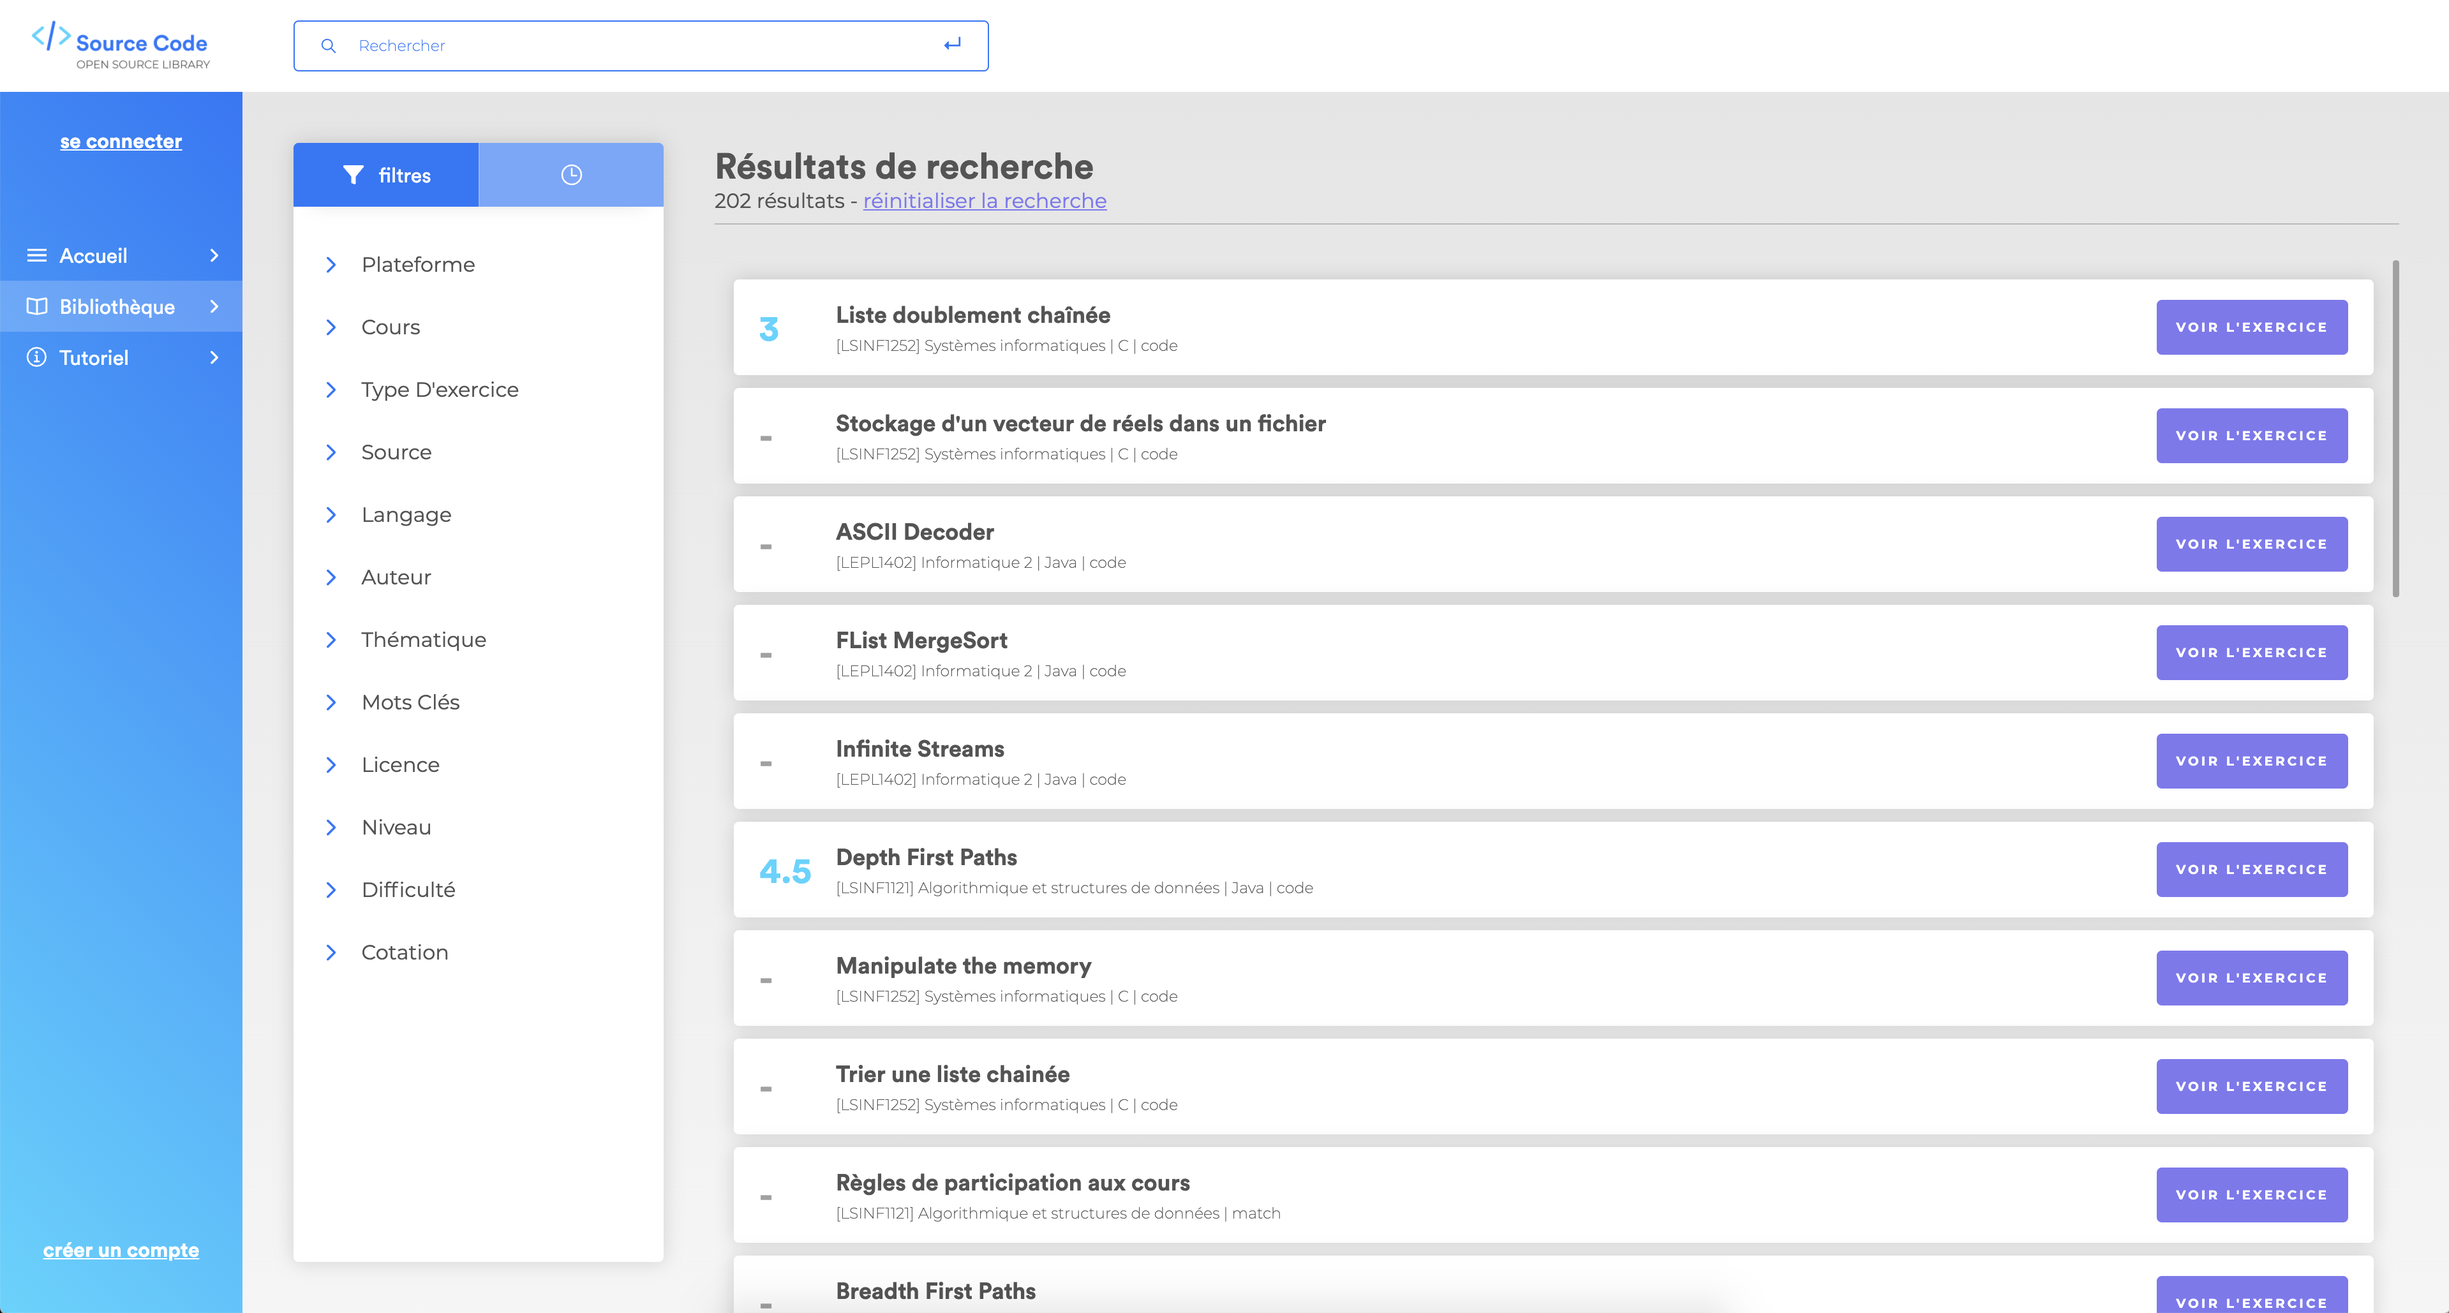
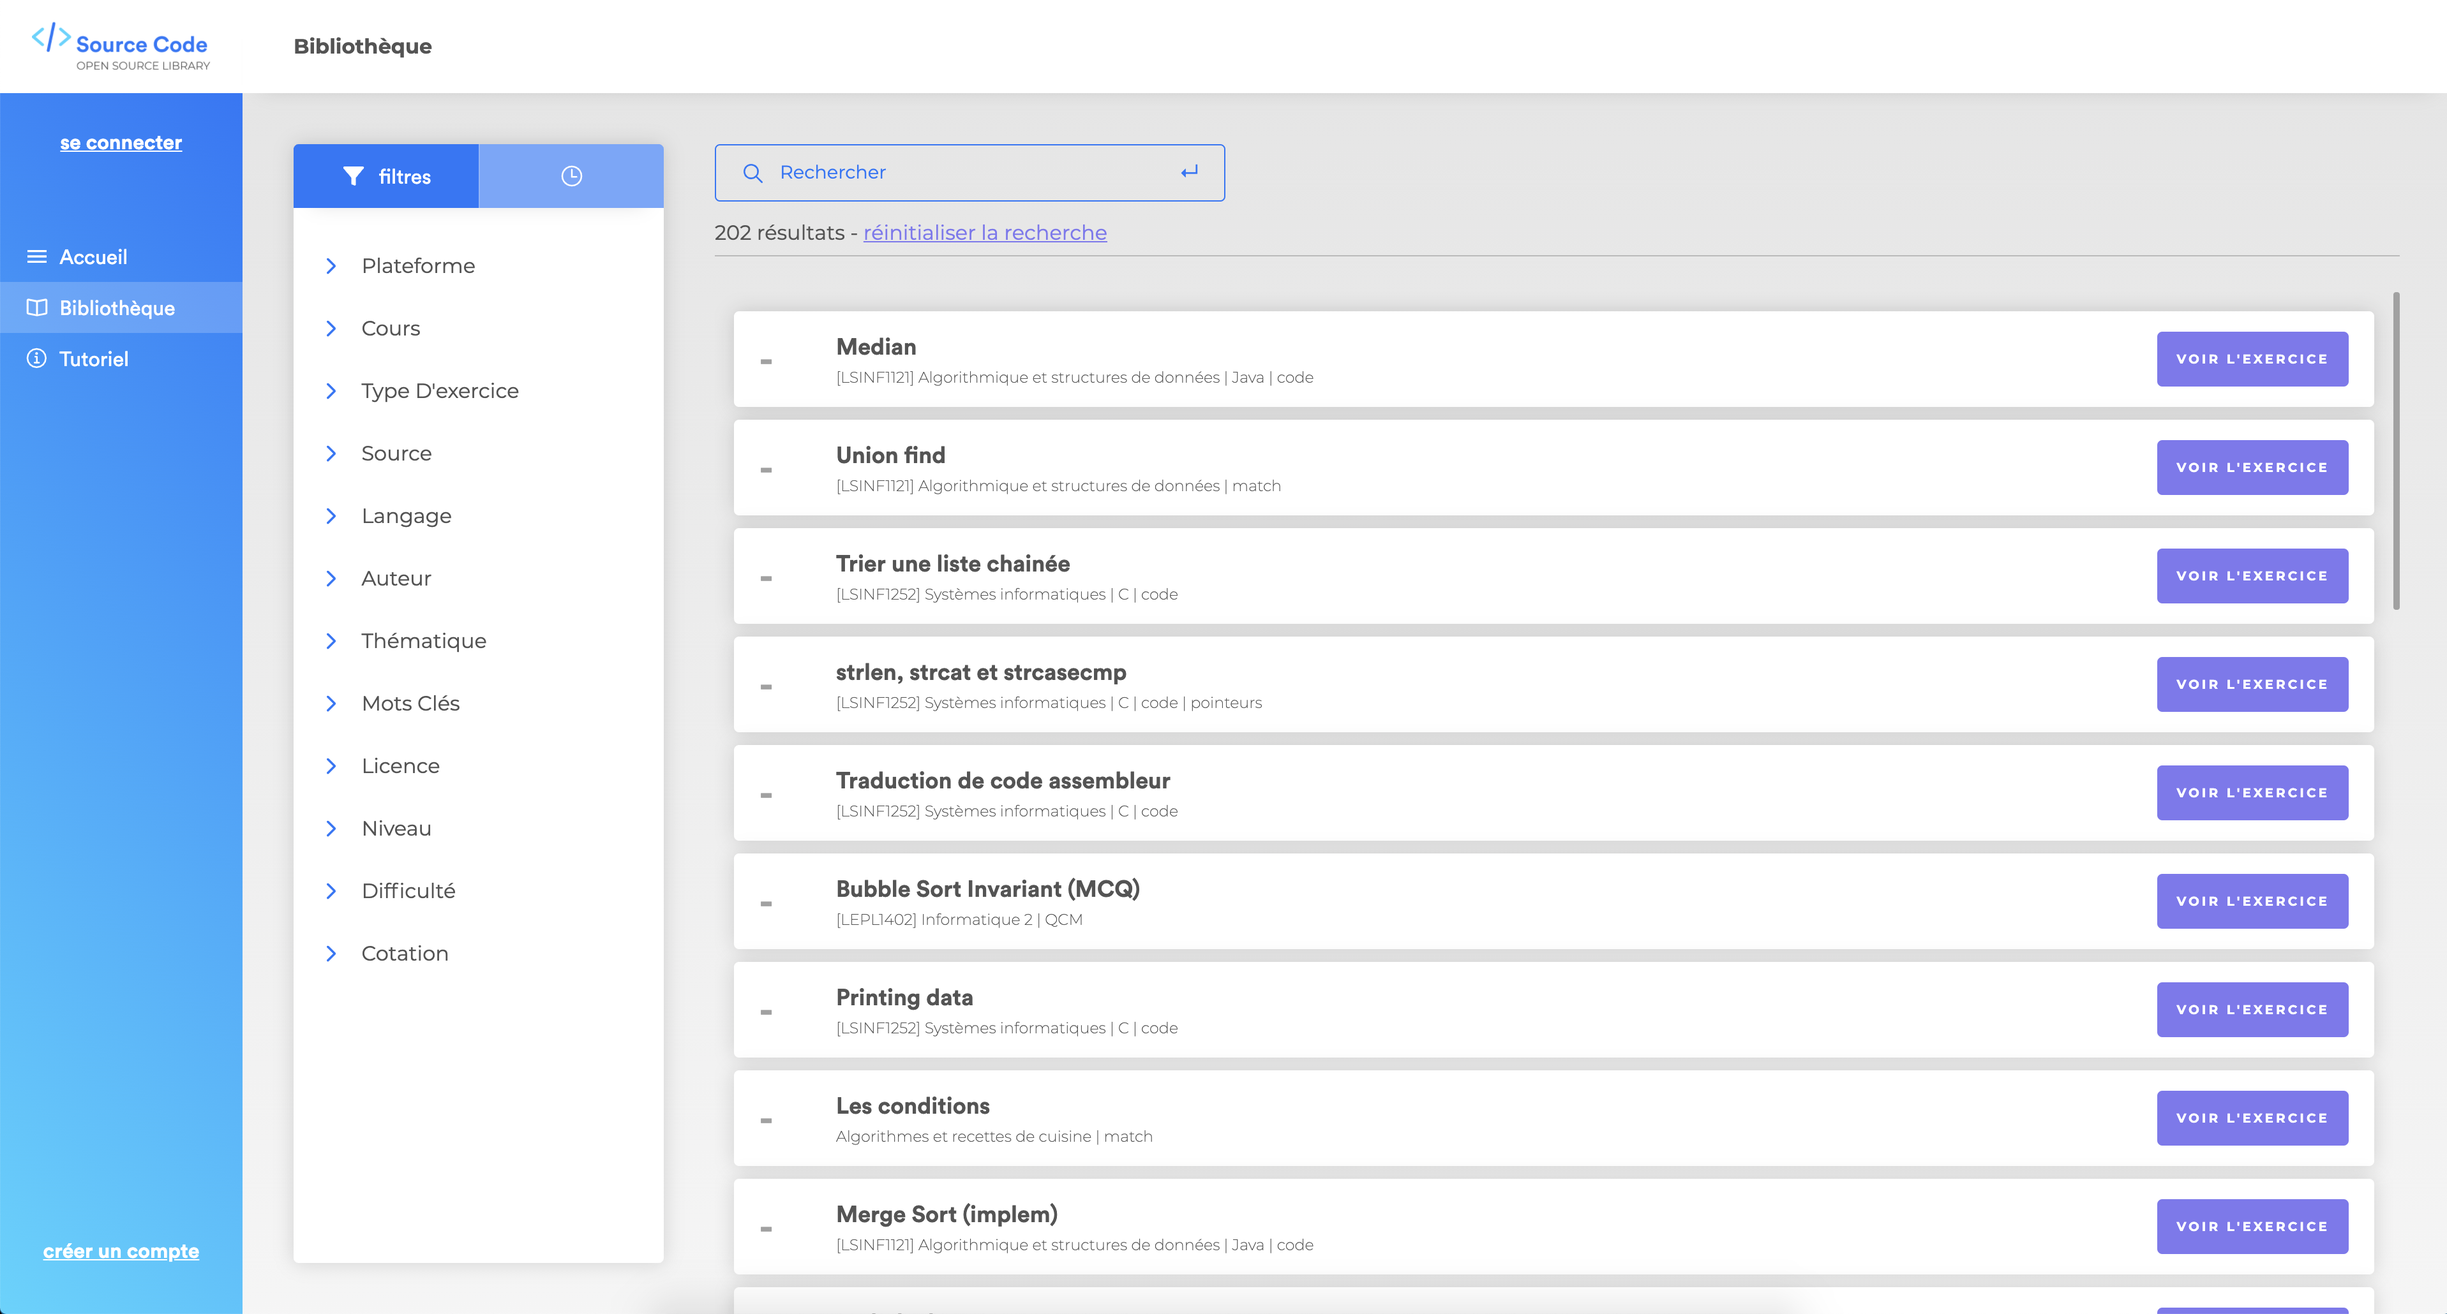
wip(Client): listen to Jacques comments

diff --git a/sections/chapters/solution/client/index.tex b/sections/chapters/solution/client/index.tex
@@ -4,7 +4,7 @@ Cette section est entièrement dédiée à la conception du \gls{frontend} de \t
 
 Pour ce faire, nous allons naviguer à travers les différentes pages de la plateforme en expliquant nos choix d'implémentation et les fonctionnalités qui ont été mises en place.\\
 
-Pour vous donner une idée plus claire de ce qui va être abordé, voici une représentation du groupe d'URL de premier niveau que contient \texttt{SourceCode}.\\
+Afin de vous donner une idée plus claire de ce qui va être abordé, voici une représentation du groupe d'URL de premier niveau que contient \texttt{SourceCode}.\\
 
 \begin{figure}[H]
     \includegraphics[width=\textwidth,height=0.15\textheight,keepaspectratio]{images/client/overview_client.jpeg}
@@ -40,7 +40,7 @@ La création d'un compte permet d'accéder à des fonctionnalités supplémentai
     \caption[SourceCode : interface de création de compte]{Interface de création de compte}
 \end{figure}
 
-Par défaut, un compte créé offre les privilèges d'un \textbf{utilisateur}. Voici pour rappel les différents types d'utilisateurs pouvant accéder à la plateforme :
+Par défaut, un compte créé offre les privilèges d'un \textbf{utilisateur}. Voici pour rappel (section \ref{section:analyseFonctionnelle}) les différents types d'utilisateurs pouvant accéder à la plateforme :
 
 \begin{itemize}
     \item \textbf{Visiteur} : C'est la forme la plus simple. Les droits de ce type d'utilisateur se limitent à la navigation dans la bibliothèque de \glspl{resinfo}. Le système de favoris n'est accessible qu'à partir du moment où vous êtes membre de la plateforme. Nous entendons par là l'utilisateur ou l'administrateur.
@@ -125,10 +125,17 @@ Il existe dès lors 3 types d'onglets :
 
 \paragraph{Filtres} Ils permettent d'affiner la recherche de \glspl{resinfo}. Les \glspl{tag} cochés apparaitront juste au-dessus des résultats. Si un \gls{tag} ne convient plus à la recherche, il suffit de décocher un des tags en question ou de cliquer sur la croix du label représentant le \gls{tag} sélectionné.\\
 
+Comme vous pourrez le constater sur la figure \ref{figure:rechercheBibliotheque}, le panneau de filtres n'est plus à la même position que ce que nous avions imaginé avec notre patchwork \ref{figure:patchwork}. Dans ce dernier, nous avions intégré le filtrage de \glspl{tag} dans une interface dédiée à cet effet.\\
+
+Dans l'interface actuelle, nous voulions que tout soit facilement accessible compte tenu du fait que nous allions intégrer l'historique et le système de favori au même endroit (ce que nous n'avions pas encore décidé au stade du patchwork).\\
+
+La page que nous avions prévu sur le patchwork pour les filtres (figure \ref{figure:systemeDeFiltres}) s'apparente plutôt à une interface avancée. Nous expliquerons d'ailleurs les quelques pistes d'améliorations qui pourraient être apportées à ce sujet dans une prochaine mise à jour de la plateforme en chapitre ???.
+
 \begin{figure}[H]
     \includegraphics[width=\textwidth,height=\textheight,keepaspectratio]{images/client/search-library.png}
     \centering
     \caption[SourceCode : recherche dans la bibliothèque]{Recherche dans la bibliothèque}
+    \label{figure:rechercheBibliotheque}
 \end{figure}
 
 Le système de filtres fonctionne comme \textit{Hackerrank} et \textit{Coderbyte} (section \ref{section:situation}) :
@@ -185,7 +192,7 @@ Voici à quoi ressemble la structure d'une \gls{fiche} :
     \caption[SourceCode : la représentation d'une \gls{fiche}]{la représentation d'une \gls{fiche}}
 \end{figure}
 
-Lorsque la ressource vous appartient ou que vous êtes un administrateur, un bouton de modification apparait dans le coin supérieur droit de la \gls{fiche} de la ressource. Cliquer sur le bouton mènera sur le formulaire de modification de la ressource (voir section \ref{section:gestionResInfo} pour la gestion coté utilisateur ou voir section \ref{section:resInfoAdmin} pour la gestion coté (super-)administrateur).\\
+Lorsque la ressource vous appartient ou que vous êtes un administrateur, un bouton de modification apparait dans le coin supérieur droit de la \gls{fiche} de la ressource. Cliquer sur le bouton mènera sur le formulaire de modification de la ressource (voir section \ref{section:gestionResInfo} pour la gestion côté utilisateur ou voir section \ref{section:resInfoAdmin} pour la gestion côté (super-)administrateur).\\
 
 \subsubsubsection*{Panneau de détails}
 
@@ -200,7 +207,7 @@ Sur la \gls{fiche} de la \gls{resinfo}, vous pouvez donner une note sur la quali
 
 Là aussi, le vote joue un rôle important dans le référencement de la \gls{resinfo} car les utilisateurs peuvent filtrer les \glspl{resinfo} en fonction de leur note.\\
 
-Nous avons choisi un système de vote sur 5 étoiles car les utilisateurs sont généralement habitués à celui-ci. La plateforme \textit{Hackerrank} utilise d'ailleurs ce système.
+Nous avons choisi un système de vote sur 5 étoiles car notre analyse (section \ref{section:situation}) a révélé cette caractérisque commune sur de nombreux sites. La plateforme \textit{Hackerrank} utilise d'ailleurs ce système.
 
 
 \subsection{Gestion}
@@ -246,9 +253,9 @@ Plusieurs informations sont disponibles pour identifier les ressources informati
 
 \subsubsubsection*{Statuts d'une \gls{resinfo}}
 
-Nous prêtons attention à la qualité du contenu sur la plateforme. Nous avons donc mis en place un système de statuts pour donner une indication sur l'état d'une \gls{resinfo}.
+Nous prêtons attention à la qualité du contenu sur la plateforme. Nous avons donc mis en place un système de statuts pour donner une indication sur l'état d'une \gls{resinfo}.\\
 
-Voici les différents états que peuvent prendre la \gls{resinfo} :
+Voici les différents états que peuvent prendre la \gls{resinfo} (découle de notre analyse bibliographique en annexe \ref{annexe:AnalyseBiblio}) :
 
 \begin{itemize}
     \item \includegraphics[valign=b,height=1.4\fontcharht\font`X]{images/client/draft.png} \textbf{Brouillon}
@@ -272,6 +279,8 @@ Voici les différents états que peuvent prendre la \gls{resinfo} :
         \item Quand une ressource est archivée, elle est alors uniquement accessible par les administrateurs et par son créateur.
     \end{itemize}
 \end{itemize}
+
+Le diagramme UML pour l'état d'un \gls{resinfo} se retrouve en figure \ref{pic:stateDiagramForFiches}.
 
 \subsubsubsection*{Gestion du statut de la ressource}
 
@@ -310,6 +319,7 @@ Lorsque vous remplissez le champ titre et/ou ajoutez des tags, le panneau à ong
 
 \begin{figure}[H]
     \includegraphics[width=\textwidth,height=0.3\textheight,keepaspectratio]{images/client/similarity.png}
+    \centering
 \end{figure}
 
 \subsubsubsection*{Soumission de la ressource}
@@ -317,7 +327,7 @@ Lorsque vous remplissez le champ titre et/ou ajoutez des tags, le panneau à ong
 Deux options de soumission sont disponibles :
 
 \begin{itemize}
-    \item \textbf{Brouillon :} Vous estimez que la \gls{resinfo} n'est pas encore prête pour être validée, vous la laissez donc en stand-by pour la modifier plus tard. À noter que vous \textbf{DEVEZ} remplir les champs obligatoires pour l'enregistrer sous cet état. C'est un choix d'archicture qui a été décidé au niveau de l'api car cela impliquait de gros changements (voir section ???).
+    \item \textbf{Brouillon :} Vous estimez que la \gls{resinfo} n'est pas encore prête pour être validée, vous la laissez donc en stand-by pour la modifier plus tard. À noter que vous \textbf{DEVEZ} remplir les champs obligatoires pour l'enregistrer sous cet état. Il s'agit d'un choix technique décidé au niveau de l'\gls{api}, pour conserver un seuil minimal de qualité dans les contributions.
     \item \textbf{Soumettre :} Vous estimez que la \gls{resinfo} est prête pour inspection. En cliquant sur soumettre, la ressource se met automatiquement en mode "en attente", jusqu'à ce qu'un administrateur la prenne en charge pour validation. Ce texte est remplacé par \textbf{valider} dans le cas de l'administrateur. Le statut de la ressource sera ainsi valide.
 \end{itemize}
 
@@ -357,7 +367,7 @@ Voici les différents champs à remplir pour créer un favori :
     \centering
 \end{figure}
 
-En ce qui concerne l'ajout de \glspl{tag}, un code couleur représentant leur statut est présenté :
+En ce qui concerne l'ajout de \glspl{tag}, un code couleur représentant leur statut est présenté (figure \ref{pic:stateDiagramForTags} pour le schéma UML à états). À noter que ce choix de statuts découle de notre analyse bibliographique en annexe \ref{annexe:AnalyseBiblio}. :
 
 \begin{itemize}
     \item Un \gls{tag} \textbf{valide} pourra être utilisé depuis la bibliothèque pour filtrer les \glspl{resinfo}. Ceci garanti un meilleur référencement pour la ressource.
@@ -366,11 +376,11 @@ En ce qui concerne l'ajout de \glspl{tag}, un code couleur représentant leur st
     \item Un \gls{tag} \textbf{non valide} n'a pas été accepté l'administration. Il se peut qu'il soit modifié ultérieurement.
 \end{itemize}
 
-Nous parlons du statut des \glspl{tag} de manière plus concise dans la section \ref{section:tagAdmin} concernant la gestion des \glspl{tag} coté administrateur.
+Nous parlons du statut des \glspl{tag} de manière plus concise dans la section \ref{section:tagAdmin} concernant la gestion des \glspl{tag} côté administrateur.
 
 \subsubsection{La consultation de profil}
 
-À ce stade-ci du développement, le \gls{frontend} autorise seulement la consultation du profil et non la modification de celui-ci par l'utilisateur. En renvanche, cette fonctionnalité est déjà disponible coté backend (voir section ???).\\
+À ce stade-ci du développement, le \gls{frontend} autorise seulement la consultation du profil et non la modification de celui-ci par l'utilisateur. En revanche, cette fonctionnalité est déjà disponible côté backend (voir section ???).\\
 
 Dans le chapitre ???, nous développons quelques pistes d'améliorations concernant cette page afin de la rendre encore plus utile.
 
@@ -412,7 +422,7 @@ La gestion des \glspl{resinfo} fonctionne exactement comme la gestion de ses pro
 
 L'administrateur possède les fonctionnalités additionnelles suivantes pour la gestion des \glspl{resinfo} :
 
-\paragraph{Export des résultats de recherche} En filtrant les \glspl{resinfo} par \glspl{tag} et/ou par titre de recherche, vous pouvez exporter tous les résultats correspondant à ce filtrage dans un fichier JSON. Le format de ce fichier est décrit sur l'api (https://sourcecodeoer.github.io/sourcecode\_api/\#operation/ExportExercises).
+\paragraph{Export des résultats de recherche} En filtrant les \glspl{resinfo} par \glspl{tag} et/ou par titre de recherche, vous pouvez exporter tous les résultats correspondant à ce filtrage dans un fichier JSON. Le format de ce fichier est décrit sur l'api (\url{https://sourcecodeoer.github.io/sourcecode_api/#operation/ExportExercises}).
 
 \paragraph{Actions supplémentaires} Par rapport à un utilisateur classique, vous pouvez changer l'état d'une \gls{resinfo} de manière plus large avec les états suivants :
 
@@ -441,11 +451,11 @@ Améliorer le processus de création de \glspl{resinfo} est une de nos principal
 Les \glspl{resinfo} doivent être importées avec un fichier JSON respectant un des deux formats que nous vous invitons à consulter :
 
 \begin{itemize}
-    \item \href{https://sourcecodeoer.github.io/sourcecode_api/#operation/createMultipleExercises}{Format d'import classique}
-    \item \href{https://sourcecodeoer.github.io/sourcecode_api/#operation/ExportExercises}{Format d'export de ressources informatiques}
+    \item Format d'import classique (\url{https://sourcecodeoer.github.io/sourcecode_api/#operation/createMultipleExercises})
+    \item Format d'export de ressources informatiques (\url{https://sourcecodeoer.github.io/sourcecode_api/#operation/ExportExercises})
 \end{itemize}
 
-Nous avons choisi de réserver cette fonctionnalité aux (super-)administrateurs car il pourrait y avoir des abus du coté des simples utilisateurs (utilisation massive de la fonctionnalité afin de casser l'api,...). À ce propos, la section \textbf{???} de la partie backend explique de manière plus concise notre choix concernant les privilèges de cette fonctionnalité.
+Nous avons choisi de réserver cette fonctionnalité aux (super-)administrateurs car il pourrait y avoir des dérives au niveau des simples utilisateurs (attaques DDOS sur l'\gls{api}, ...). À ce propos, la section \textbf{???} de la partie backend explique de manière plus concise notre choix concernant les privilèges de cette fonctionnalité.
 
 \subsubsection{La gestion des \glspl{tag}}
 \label{section:tagAdmin}
@@ -462,9 +472,9 @@ L'interface de gestion prévu à cet effet est semblable à celle de la gestion 
 
 \subsubsubsection*{Statuts des \glspl{tag}}
 
-De la même manière que pour les \glspl{resinfo}, nous proposons un système de statuts pour donner une indication sur l'état d'un \gls{tag}. Nous voulons que le système de \glspl{tag} soit évolutif et flexible. Nous laissons donc les utilisateurs de la plateforme ajouter leurs \glspl{resinfo}, mais aussi des propositions de \glspl{tag} afin d'agrandir le vocabulaire de \texttt{SourceCode}.\\
+De la même manière que pour les \glspl{resinfo}, nous proposons un système de statuts pour donner une indication sur l'état d'un \gls{tag} (la figure \ref{pic:stateDiagramForTags} représente ces états sur un diagramme UML). Nous voulons que le système de \glspl{tag} soit évolutif et flexible. Nous laissons donc les utilisateurs de la plateforme ajouter leurs \glspl{resinfo}, mais aussi des propositions de \glspl{tag} afin d'agrandir le vocabulaire de \texttt{SourceCode}.\\
 
-Cela passe bien évidement par la validation des administrateurs, qui agissent de concerts pour offrir un vocabulaire contrôlé aux utilisateurs, évoluant ainsi en fonction des besoins.
+Cela passe bien évidement par la validation des administrateurs, qui agissent de concert pour offrir un vocabulaire contrôlé aux utilisateurs, évoluant ainsi en fonction des besoins (voir analyse bibliographique en annexe \ref{annexe:AnalyseBiblio}).
 
 Voici la liste des différents status que peut prendre un \gls{tag} :
 

diff --git a/sections/chapters/problematique/index.tex b/sections/chapters/problematique/index.tex
@@ -344,12 +344,15 @@ Afin de vous donner une petite idée de ce que nous avons imaginé après la pre
     \centering
     \caption{La page Bibliothèque}
 \end{figure}
+\label{figure:patchwork}
 
 \begin{figure}[H]
     \includegraphics[width=\textwidth,height=0.4\textheight,keepaspectratio]{images/filters.JPG}
     \centering
     \caption{Représentation du système de filtres avec les \glspl{tag}}
 \end{figure}
+\label{figure:systemeDeFiltres}
+
 
 \begin{figure}[H]
     \includegraphics[width=\textwidth,height=0.4\textheight,keepaspectratio]{images/resource.JPG}
